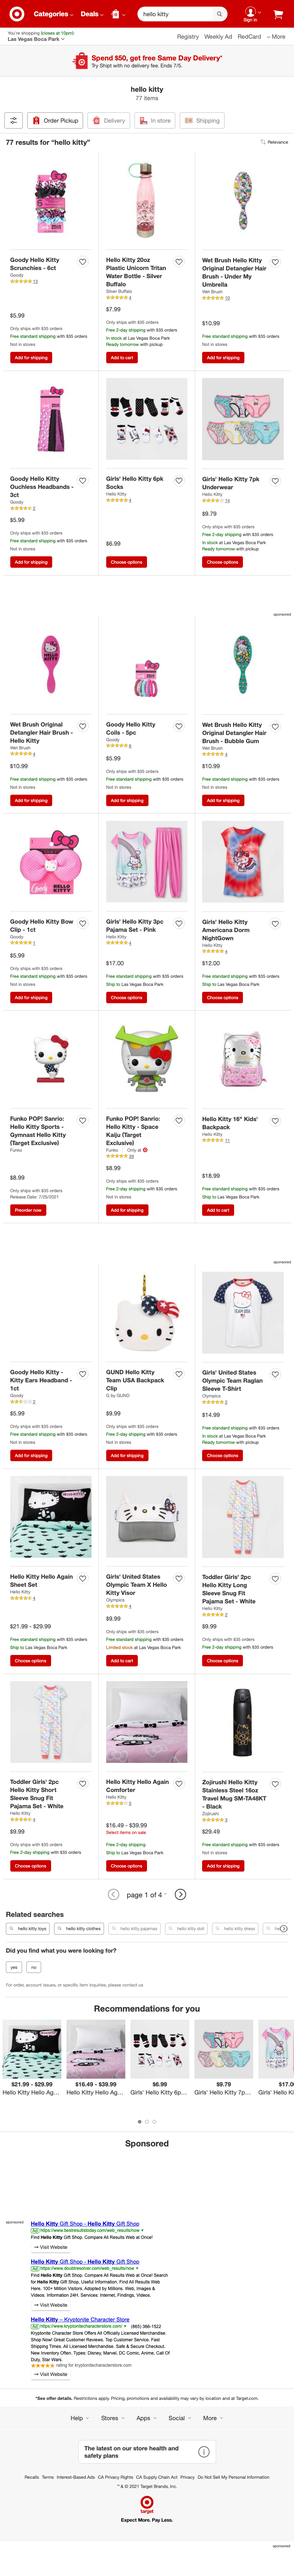
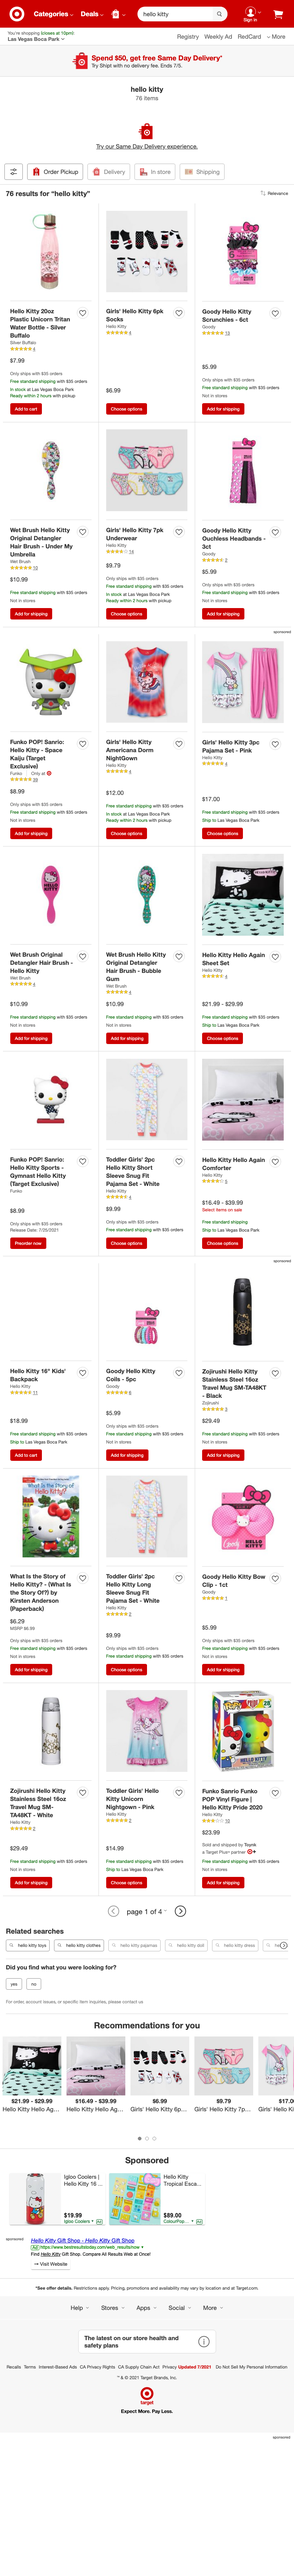
added functioning history page

diff --git a/server/controllers/userController.js b/server/controllers/userController.js
@@ -1,6 +1,6 @@
-const { Redirect } = require('react-router');
-const User = require('../models/userModel');
-const History = require('../models/historyModel');
+const { Redirect } = require("react-router");
+const User = require("../models/userModel");
+const History = require("../models/historyModel");
 const userController = {};
 
 //create new user
@@ -36,7 +36,7 @@ userController.verifyUser = (req, res, next) => {
         res.locals.user = user;
         return next();
       } else {
-        res.redirect('/signup');
+        res.redirect("/signup");
       }
     })
     .catch((err) => {
@@ -47,7 +47,7 @@ userController.verifyUser = (req, res, next) => {
 userController.addFavorite = async (req, res, next) => {
   try {
     // instead of the actual id, do req.cookies.ssid
-    const user = await User.findOne({ _id: '60dcd9ade4979317ae5a6c23' });
+    const user = await User.findOne({ _id: "60dcd9ade4979317ae5a6c23" });
     // spread previous favorites into new array
     const userFavorites = [...user.favorites];
     // get new item object off of request body
@@ -57,7 +57,7 @@ userController.addFavorite = async (req, res, next) => {
     // update the user's file with the new favorites array
     // instead of the actual id, do req.cookies.ssid
     const userUpdated = await User.findOneAndUpdate(
-      { _id: '60dcd9ade4979317ae5a6c23' },
+      { _id: "60dcd9ade4979317ae5a6c23" },
       { favorites: userFavorites },
       { new: true }
     );
@@ -72,14 +72,14 @@ userController.addFavorite = async (req, res, next) => {
 userController.removeFavorite = async (req, res, next) => {
   try {
     // instead of the actual id, do req.cookies.ssid
-    const user = await User.findOne({ _id: '60dcd9ade4979317ae5a6c23' });
+    const user = await User.findOne({ _id: "60dcd9ade4979317ae5a6c23" });
     const origFavorites = [...user.favorites];
     const newFavoritesList = origFavorites.filter((favObj) => {
       return favObj.title !== req.body.removeFavorite.title;
     });
     // instead of the actual id, do req.cookies.ssid
     const userUpdated = await User.findOneAndUpdate(
-      { _id: '60dcd9ade4979317ae5a6c23' },
+      { _id: "60dcd9ade4979317ae5a6c23" },
       { favorites: newFavoritesList },
       { new: true }
     );
@@ -94,7 +94,7 @@ userController.removeFavorite = async (req, res, next) => {
 userController.getUserData = async (req, res, next) => {
   try {
     // get the user from the database from whoever just logged in
-    const user = await User.findOne({ _id: '60dcd9ade4979317ae5a6c23' });
+    const user = await User.findOne({ _id: "60dcd9ade4979317ae5a6c23" });
     // we want to send to frontend: username, email, favorites, and history
     const userData = {
       username: user.username,
@@ -117,11 +117,11 @@ userController.addHistory = async (req, res, next) => {
       results: res.locals.scraped,
     });
     console.log(historyItem._id);
-    const user = await User.findOne({ _id: '60dcd9ade4979317ae5a6c23' });
+    const user = await User.findOne({ _id: "60dcd9ade4979317ae5a6c23" });
     const updatedHistory = [...user.history];
     updatedHistory.push(historyItem._id);
     const userUpdated = await User.findOneAndUpdate(
-      { _id: '60dcd9ade4979317ae5a6c23' },
+      { _id: "60dcd9ade4979317ae5a6c23" },
       { history: updatedHistory },
       { new: true }
     );
@@ -154,10 +154,10 @@ userController.addHistory = async (req, res, next) => {
 
 userController.getHistoryData = async (req, res, next) => {
   try {
-    const user = await User.findOne({ _id: '60dcd9ade4979317ae5a6c23' });
+    const user = await User.findOne({ _id: "60dcd9ade4979317ae5a6c23" });
     console.log(user.history);
     let historyData = await History.find({ _id: { $in: user.history } });
-    console.log('history data: ', historyData);
+    console.log("history data: ", historyData);
     res.locals.history = historyData;
     return next();
   } catch (err) {

diff --git a/client/src/pages/Home/index.js b/client/src/pages/Home/index.js
@@ -1,65 +1,20 @@
-import React from "react";
 import { connect } from "react-redux";
 import { makeStyles } from "@material-ui/core/styles";
-import Grid from "@material-ui/core/Grid";
-import RetailList from "../../components/RetailList";
-import Search from "./Search";
-import AmazonLogo from "../../components/logos/AmazonLogo";
-import EbayLogo from "../../components/logos/EbayLogo";
-import TargetLogo from "../../components/logos/TargetLogo";
 import { useState, useEffect } from "react";
 import axios from "axios";
+import { DisplayGrid } from "../../components/DisplayGrid";
 
-
-const useStyles = makeStyles((theme) => ({
+export const useStyles = makeStyles((theme) => ({
   root: {
     margin: theme.spacing(10, 0),
   },
 }));
 
-function HomePage({ amazonProducts, ebayProducts, targetProducts }) {
-  const classes = useStyles();
-  const retailers = ["Amazon", "eBay", "Target"];
-  const retailerLogos = [<AmazonLogo />, <EbayLogo />, <TargetLogo />];
-  const productData = [amazonProducts, ebayProducts, targetProducts];
-
-  // useEffect(() => {
-  //   axios
-  //     .get("/")
-  //     .then((data) => {
-  //       console.log(data);
-  //     })
-  //     .catch((err) => console.log(err));
-  // }, []);
-
-  return (
-    <Grid
-      container
-      className={classes.root}
-      direction="column"
-      justify="center"
-      alignContent="center"
-    >
-      <Search retailers={retailers} retailerLogos={retailerLogos} />
-    
-      <Grid container direction="row" justify="center" alignContent="center">
-        {retailers.map((retailer, index) => (
-          <RetailList
-            key={`home-${retailer}-${index}`}
-            retailer={retailer.toLowerCase()}
-            logo={retailerLogos[index]}
-            productData={productData[index]}
-          />
-        ))}
-      </Grid>
-    </Grid>
-  );
-}
-
 const mapStateToProps = (state) => ({
   amazonProducts: state.amazon.amazonProducts,
   ebayProducts: state.ebay.ebayProducts,
   targetProducts: state.target.targetProducts,
+  withSearch: true,
 });
 
-export default connect(mapStateToProps, null)(HomePage);
+export default connect(mapStateToProps, null)(DisplayGrid);

diff --git a/client/src/components/DisplayGrid.js b/client/src/components/DisplayGrid.js
@@ -1,0 +1,53 @@
+import React from "react";
+import Grid from "@material-ui/core/Grid";
+import RetailList from "./RetailList";
+import Search from "../pages/Home/Search";
+import AmazonLogo from "./logos/AmazonLogo";
+import EbayLogo from "./logos/EbayLogo";
+import TargetLogo from "./logos/TargetLogo";
+import { useStyles } from "../pages/Home/index";
+
+export function DisplayGrid({
+  amazonProducts,
+  ebayProducts,
+  targetProducts,
+  withSearch,
+}) {
+  const classes = useStyles();
+  const retailers = ["Amazon", "eBay", "Target"];
+  const retailerLogos = [<AmazonLogo />, <EbayLogo />, <TargetLogo />];
+  const productData = [amazonProducts, ebayProducts, targetProducts];
+
+  // useEffect(() => {
+  //   axios
+  //     .get("/")
+  //     .then((data) => {
+  //       console.log(data);
+  //     })
+  //     .catch((err) => console.log(err));
+  // }, []);
+  return (
+    <Grid
+      container
+      className={classes.root}
+      direction="column"
+      justify="center"
+      alignContent="center"
+    >
+      {withSearch && (
+        <Search retailers={retailers} retailerLogos={retailerLogos} />
+      )}
+
+      <Grid container direction="row" justify="center" alignContent="center">
+        {retailers.map((retailer, index) => (
+          <RetailList
+            key={`home-${retailer}-${index}`}
+            retailer={retailer.toLowerCase()}
+            logo={retailerLogos[index]}
+            productData={productData[index]}
+          />
+        ))}
+      </Grid>
+    </Grid>
+  );
+}

diff --git a/client/src/pages/History/index.js b/client/src/pages/History/index.js
@@ -1,7 +1,41 @@
-import React, { useEffect } from "react";
+import React, { useEffect, useStyles } from "react";
+import { connect } from "react-redux";
+import { bindActionCreators } from "redux";
+import { DisplayGrid } from "../../components/DisplayGrid";
+import * as actionCreators from "../../actions/actionCreators";
+import NavBar from "../../components/NavBar";
+import { Typography } from "@material-ui/core";
 
-function HistoryPage() {
-  return <div>History Page</div>;
+function HistoryPage({ fetchHistory, history }) {
+  useEffect(() => {
+    //need to figure out cookieid to pass in
+    console.log("Am I using effect in history?");
+    fetchHistory();
+  }, []);
+  //give withSearch a bool
+  return (
+    <div>
+      <NavBar />
+      <Typography variant="h3">Previous Search Results</Typography>
+      <DisplayGrid
+        amazonProducts={history[0]?.results.amazon || []}
+        ebayProducts={history[0]?.results.ebay || []}
+        targetProducts={history[0]?.results.target || []}
+      />
+    </div>
+  );
 }
 
-export default HistoryPage;
+const mapStateToProps = (state) => ({
+  history: state.user.history,
+});
+
+const mapDispatchToProps = (dispatch) =>
+  bindActionCreators(
+    {
+      fetchHistory: actionCreators.fetchHistory,
+    },
+    dispatch
+  );
+
+export default connect(mapStateToProps, mapDispatchToProps)(HistoryPage);

diff --git a/client/src/actions/actionCreators.js b/client/src/actions/actionCreators.js
@@ -1,6 +1,23 @@
 import * as actions from "./actions";
 import axios from "axios";
 
+export function fetchHistory(dataId) {
+  return function (dispatch) {
+    return axios
+      .get("/historyData", {
+        dataId,
+      })
+      .then(({ data }) => {
+        console.log("This is my history data", data);
+        dispatch(setHistoryProducts(data));
+      })
+      .catch((err) => console.log(err));
+  };
+}
+
+export function setHistoryProducts(fetchedHistory) {
+  return { type: actions.FETCH_HISTORY, payload: { fetchedHistory } };
+}
 export function fetchAmazon(item) {
   return function (dispatch) {
     return axios

diff --git a/client/src/reducers/userReducer.js b/client/src/reducers/userReducer.js
@@ -4,6 +4,7 @@ const initialState = {
   username: "",
   email: "",
   favorites: [],
+  history: [],
 };
 
 function userReducer(state = initialState, { type, payload }) {
@@ -37,6 +38,11 @@ function userReducer(state = initialState, { type, payload }) {
       return {
         ...state,
         favorites: [...fetchedFavorites],
+      };
+    case actions.FETCH_HISTORY:
+      return {
+        ...state,
+        history: [...payload.fetchedHistory],
       };
 
     default:

diff --git a/client/src/actions/actions.js b/client/src/actions/actions.js
@@ -15,3 +15,4 @@ export const FETCH_FAVORITE = "FETCH_FAVORITE";
 export const SIGN_IN = "SIGN_IN";
 export const ADD_FAVORITE = "ADD_FAVORITE";
 export const REMOVE_FAVORITE = "REMOVE_FAVORITE";
+export const FETCH_HISTORY = "FETCH_HISTORY";
